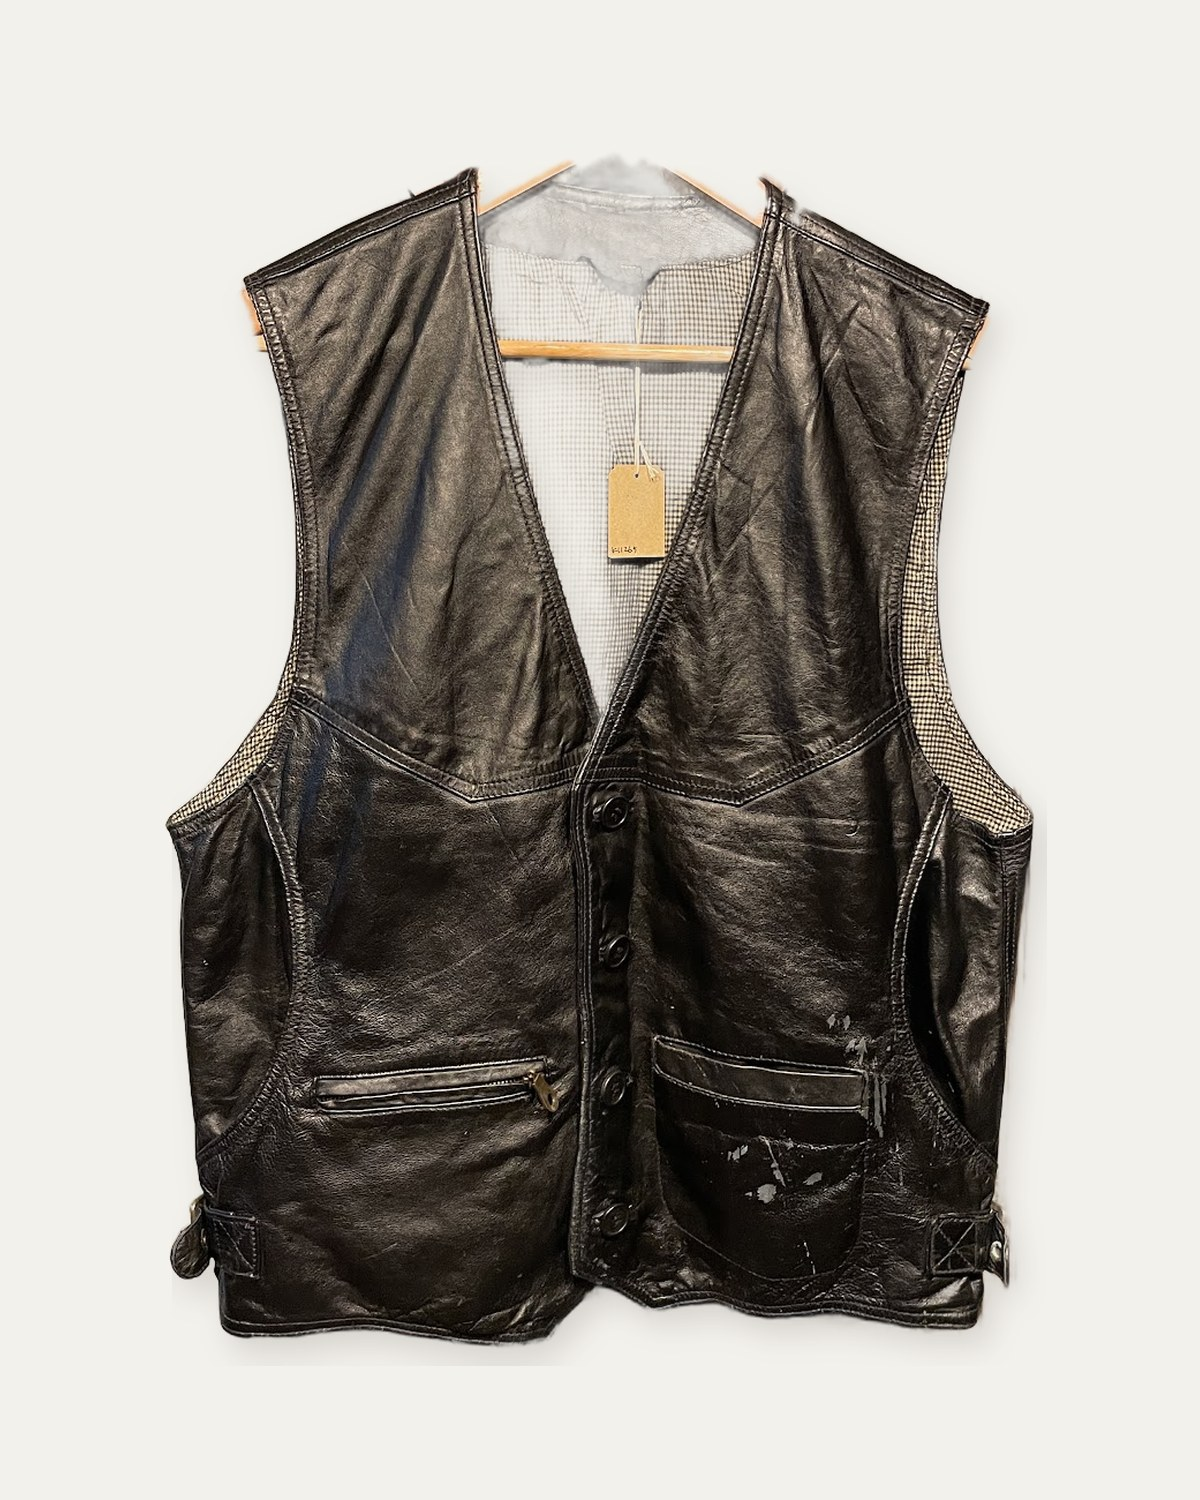
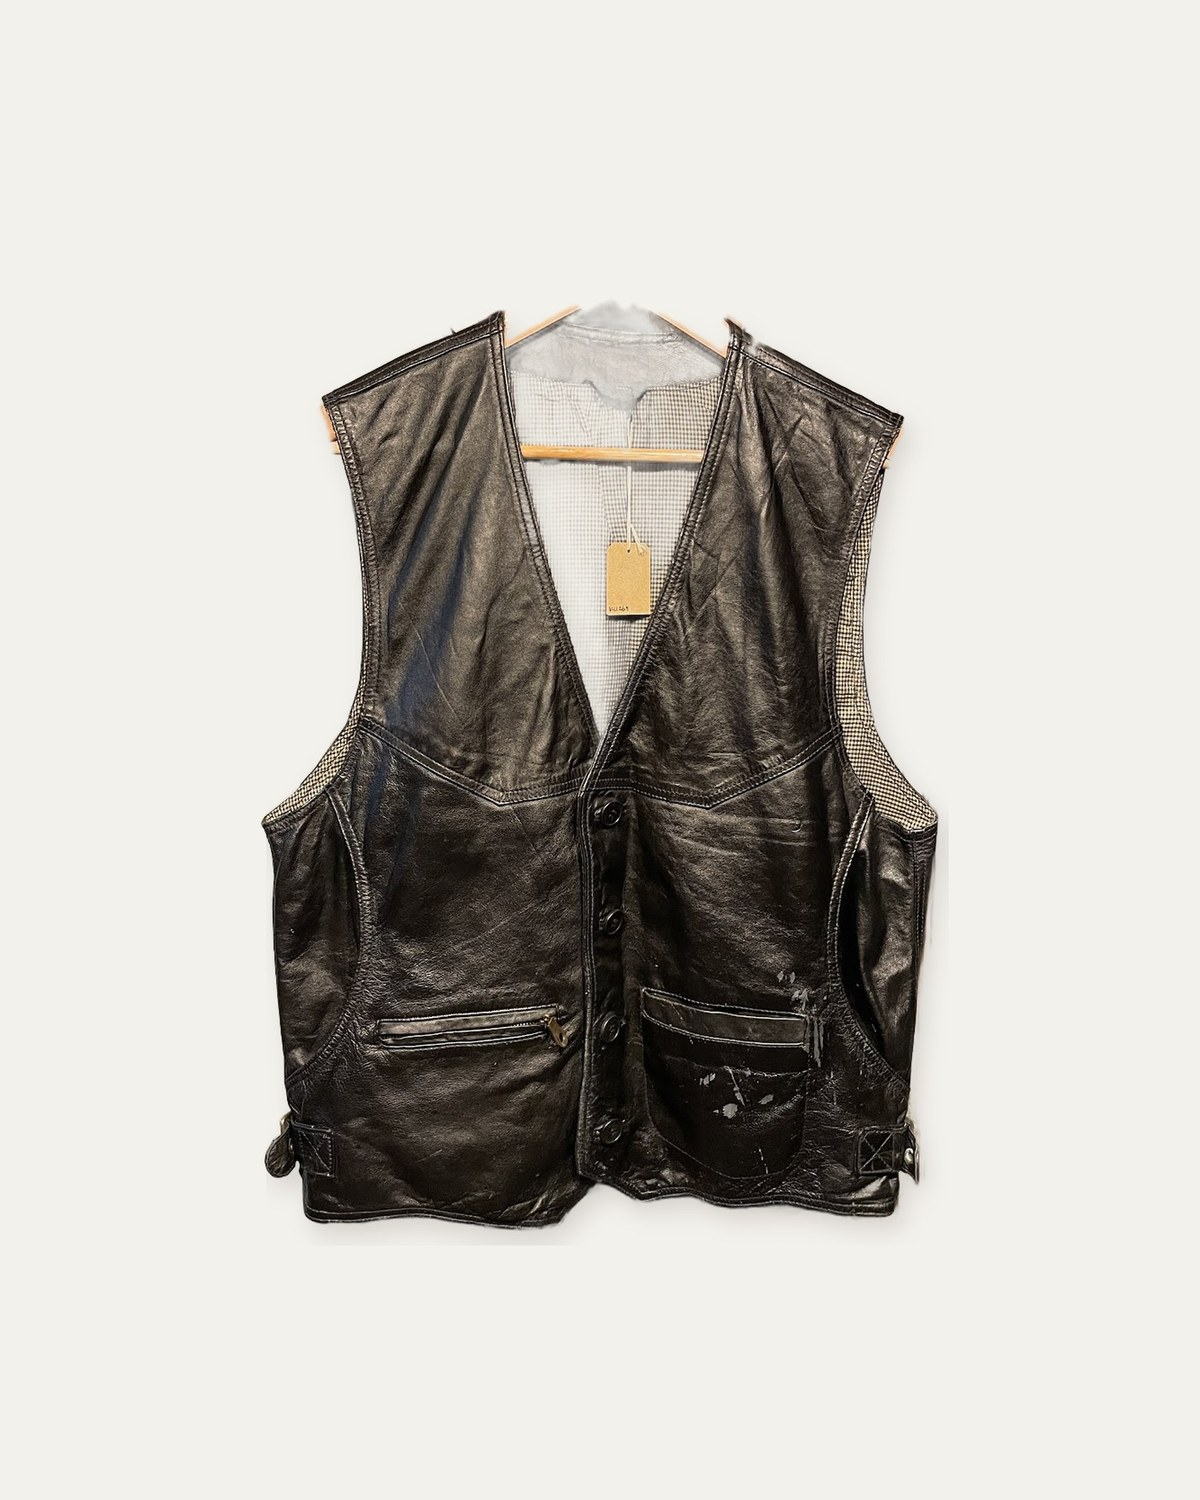
写真の余白を広く（服の大きさ80%→約64%）・K11265の正面写真を縮め直し／マネキン画像の作り直し（汚れを残す・値札なし・脚の比率）を1回だけ（龍さん決定 1A・2A 2026-10-14）
Claude-Session: https://claude.ai/code/session_01WgxkceSratkfX82N8L1Y7a

diff --git a/tools/photo_v2.py b/tools/photo_v2.py
@@ -45,7 +45,7 @@ MONTH_CAP_YEN = 1000.0                # この処理の1か月の上限（Google
 
 BG = (243, 241, 236)                  # サイト共通の背景色（オフホワイト）
 CANVAS = (1200, 1500)                 # 4:5
-FIT_H, FIT_W = 0.80, 0.78             # 本物の写真：服が占める高さ・幅の上限
+FIT_H, FIT_W = 0.64, 0.62             # 本物の写真：服が占める高さ・幅の上限（2026-10-14 龍さん決定A：寄りすぎなので 0.80/0.78 から下げて余白を広く）
 MANNEQUIN_H = 0.86                    # マネキン：頭から足までをキャンバスの高さの86%に固定（＝商品どうしで縮尺が揃う）
 FONT = '/usr/share/fonts/opentype/noto/NotoSansCJK-Regular.ttc'
 
@@ -386,7 +386,12 @@ def mannequin_image(p, front, b, m, budget):
               'Show the whole mannequin from head to feet. Keep the garment identical: same color, pattern, print, logos, tags, '
               'buttons (same number), stitching, fabric texture, fading, wear and proportions. Do not add, remove or redesign '
               'anything on it. Do not add other clothes except plain white simple trousers if the item is a top, no accessories, '
-              'no people, no text. Plain flat off-white background (#F3F1EC), soft even studio light. ' + fit_text(p, b, m))
+              'no people, no text. Plain flat off-white background (#F3F1EC), soft even studio light. '
+              # 2026-10-14 追加：K11265 で汚れが消え・値札が描かれ・脚が短くなったため
+              'Keep every stain, paint mark, scratch, crack and other damage exactly where it is on the original; never clean or repair it. '
+              'Do not draw price tags, paper tags, labels hanging from the garment, or hangers. '
+              'The mannequin must have realistic adult proportions: legs are about half of the total height, crotch at about 47% of the height from the floor. '
+              + fit_text(p, b, m))
     res, y = gemini_logged(budget, p['sku'], 'マネキン画像', IMAGE_MODEL, [img_part(front), {'text': prompt}],
                            {'responseModalities': ['IMAGE', 'TEXT']}, images=1)
     if y > STOP_PER_IMAGE_YEN:
@@ -514,9 +519,44 @@ def process(p, budget):
     p['photo_v2'] = v
 
 
+def is_mannequin_retry(p):
+    """photo_v2.mannequin が "retry" の商品は、マネキン画像だけを1回作り直す（2026-10-14 追加・人がNGにした時用）"""
+    v = p.get('photo_v2') or {}
+    return (p.get('status') == 'available' and v.get('mannequin') == 'retry' and v.get('mannequin_retries', 0) < 1
+            and p.get('genre') in CLOTHES and bool(p.get('images_orig') or p.get('images')))
+
+
 def targets(products):
     only = [x.strip() for x in os.environ.get('PHOTO_V2_ONLY', '').split(',') if x.strip()]   # 試験用：品番を絞る
-    return [p for p in products if is_target(p) and (not only or p['sku'] in only)]
+    return [p for p in products if (is_target(p) or is_mannequin_retry(p)) and (not only or p['sku'] in only)]
+
+
+def remake_mannequin(p, budget):
+    """マネキン画像だけ作り直す。背景をそろえた写真・並びは変えない。結果は確認待ち（pending）に戻す"""
+    v = p['photo_v2']
+    v['mannequin_retries'] = v.get('mannequin_retries', 0) + 1
+    if not budget.can_spend(STOP_PER_IMAGE_YEN):
+        Budget.stop(f'この月の写真v2のAI代が上限 {MONTH_CAP_YEN:.0f}円 に届きました（使用 {budget.spent:.0f}円）')
+        return
+    src = p.get('images_orig') or p['images']
+    fi = v.get('front_i', 0)
+    front = load_image(src[fi] if 0 <= fi < len(src) else src[0])
+    b, m = body_for(p), parse_measures(p)
+    rel = f'/assets/products/{p["sku"].lower()}'
+    od = os.path.join(ROOT, rel.lstrip('/'))
+    try:
+        raw = mannequin_image(p, front, b, m, budget)
+        from PIL import Image
+        rgba = raw.convert('RGBA'); rgba.putalpha(Image.fromarray((edge_alpha(raw) * 255).astype('uint8')))
+        caption(place(rgba, MANNEQUIN_H, 0.9, shadow=False),
+                f'{b["label"]}のマネキン着用イメージ（AI作成／サイズ感は実寸からの推定）').save(
+            os.path.join(od, 'v2_mannequin.jpg'), quality=88, optimize=True)
+        v.update({'mannequin': 'pending', 'mannequin_url': f'{rel}/v2_mannequin.jpg', 'mannequin_body': b['label'], 'measures': m,
+                  'mannequin_date': now_jst().strftime('%Y-%m-%d')})
+        log(f'{p["sku"]}: マネキン画像を作り直しました（確認待ち）')
+    except Exception as e:
+        v['mannequin'] = 'error'
+        log(f'{p["sku"]}: マネキン画像の作り直し 失敗：{e!r}')
 
 
 def save_products(products):
@@ -560,7 +600,10 @@ def _main():
                 break
             before = json.dumps(p, ensure_ascii=False, sort_keys=True)
             try:
-                process(p, budget)
+                if is_mannequin_retry(p):
+                    remake_mannequin(p, budget)
+                else:
+                    process(p, budget)
                 changed += 1
                 save_products(products)   # 1商品ごとに保存
             except Exception as e:
